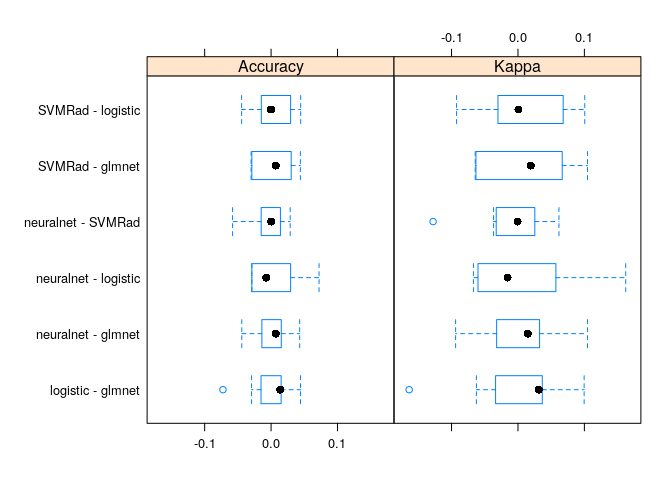
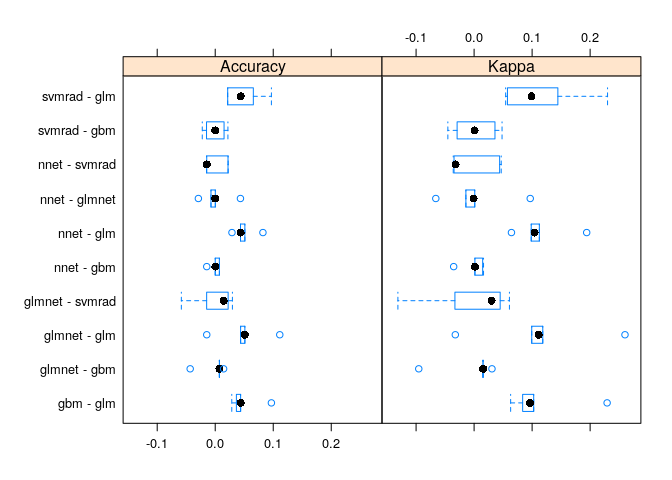
gbm

diff --git a/source/Caret.md b/source/Caret.md
@@ -1,7 +1,7 @@
 Machine Learning with Caret
 ================
 Jesse Cambon
-18 September, 2018
+21 September, 2018
 
 -   [References](#references)
 -   [Setup](#setup)
@@ -42,49 +42,35 @@ skim(BreastCancer)
 
 BC <- BreastCancer %>% as_tibble() %>%
   dplyr::select(-Id) %>%
-  drop_na() # should really use imputation but we'll do this for now
+  # should really use imputation but we'll just drop nas for now
+  drop_na() 
 
 # Use k-fold cross-validation
-control <- trainControl(method="cv", number=10)
+TC <- trainControl(method="cv", number=5)
 
-# Neural Network
-nnet <- train(Class ~ .,  # decide out outcome variable
-               BC, # our dataset
-               trControl=control,
-               method='nnet')
-nnet
+# Train some models
 
-# SVM Radial
-svmRad <- train(Class ~ .,  
-               BC, 
-               trControl=control,
-               method='svmRadial')
+# Neural Net
+nnet <- train(Class ~ . , BC,method='nnet',trControl=TC)
 
-svmRad
+# Gradient Boosted Machine
+gbm <- train(Class ~ . , BC,method='gbm',trControl=TC)
 
-# Bayesian Logistic Regression
-logistic <- train(Class ~ .,  # decide out outcome variable
-               BC, # our dataset
-               trControl=control,
-               method='bayesglm')
+# Radial SVM
+svmrad <- train(Class ~ . , BC,method='svmRadial',trControl=TC)
 
-logistic
+# Elastic-net
+glmnet <- train(Class ~ . , BC,method='glmnet',trControl=TC,tuneLength=5)
 
-glmnet <- train(Class ~ .,  
-               BC, 
-               trControl=control,
-               method='glmnet')
-
-glmnet
+# Logistic regression - did not converge
+glm <- train(Class ~ . , BC,method='glm',trControl=TC)
 ```
 
 ``` r
 # Look at results of Glmnet model
 
-glmOptLambda <- glmnet$finalModel$lambdaOpt
-
 # Extract coefficients from optimal model
-glm_coeff1 <- coef(glmnet$finalModel,glmOptLambda) %>% 
+glm_coeff <- coef(glmnet$finalModel,glmnet$finalModel$lambdaOpt) %>% 
   as.matrix() %>% as.data.frame() %>%
   rownames_to_column('Variable') %>%
   as_tibble() %>%
@@ -92,25 +78,21 @@ glm_coeff1 <- coef(glmnet$finalModel,glmOptLambda) %>%
   arrange(desc(abs(Coefficient)))
 
 
-# glmterms <- tidy(glmnet$finalModel) %>%
-#   # Pick closest model to optimal lambda
-#   filter(abs(lambda - glmOptLambda) == min(abs(lambda-glmOptLambda))) %>%
-#   arrange(desc(estimate)) 
-
 # Combine variable importance data with coefficients
 varImportance <- varImp(glmnet)$importance %>% 
   rownames_to_column('Variable') %>%
   rename(Importance=2) %>%
   arrange(desc(Importance)) %>%
-  full_join(glm_coeff1,by='Variable') %>%
+  full_join(glm_coeff,by='Variable') %>%
   filter(Coefficient != 0) 
 ```
 
 ``` r
-resamps <- resamples(list(neuralnet=nnet,
-                          SVMRad=svmRad,
-                          logistic=logistic,
-                          glmnet=glmnet))
+resamps <- resamples(list(nnet=nnet,
+                          glmnet=glmnet,
+                          svmrad=svmrad,
+                          gbm=gbm,
+                          glm=glm))
 
 # Accuracy comparison
 dotplot(resamps, metric = "Accuracy")
@@ -133,21 +115,43 @@ kable(varImportance,format='markdown') %>%
   kable_styling(bootstrap_options = c("striped",'border'))
 ```
 
-| Variable        |   Importance|  Coefficient|
-|:----------------|------------:|------------:|
-| Cl.thickness.L  |  100.0000000|    1.4334465|
-| Cell.shape.L    |   98.9959241|    1.4190536|
-| Cell.size.L     |   96.0999432|    1.3775413|
-| Marg.adhesion.L |   59.9424497|    0.8592429|
-| Epith.c.size.L  |   58.7994816|    0.8428591|
-| Cell.shape.Q    |   53.8521328|   -0.7719415|
-| Bare.nuclei10   |   48.7846527|    0.6993019|
-| Cell.size.Q     |   45.8138944|   -0.6567177|
-| Cell.size.C     |   20.4244327|    0.2927733|
-| Epith.c.size^5  |   19.8534568|   -0.2845887|
-| Epith.c.size.Q  |   12.7810786|   -0.1832099|
-| Epith.c.size^4  |    6.4488341|    0.0924406|
-| Marg.adhesion.Q |    1.2788000|   -0.0183309|
-| Cell.shape.C    |    0.8378617|    0.0120103|
-| Bl.cromatin7    |    0.3533834|    0.0050656|
-| (Intercept)     |           NA|    0.7439187|
+| Variable          |   Importance|  Coefficient|
+|:------------------|------------:|------------:|
+| Cl.thickness.L    |  100.0000000|    3.4100769|
+| Cell.shape.L      |   57.9989495|    1.9778088|
+| Cell.size.L       |   56.7390611|    1.9348456|
+| Marg.adhesion.L   |   56.7390084|    1.9348438|
+| Bare.nuclei10     |   50.7586916|    1.7309104|
+| Bare.nuclei9      |   45.7678445|    1.5607187|
+| Bare.nuclei6      |   41.2990307|    1.4083287|
+| Normal.nucleoli10 |   37.7832016|    1.2884362|
+| Cell.shape.Q      |   36.2651756|   -1.2366704|
+| Bl.cromatin5      |   33.2490293|    1.1338175|
+| Marg.adhesion^9   |   31.7087950|    1.0812943|
+| Normal.nucleoli4  |   29.5420557|    1.0074068|
+| Normal.nucleoli9  |   24.0973080|    0.8217367|
+| Epith.c.size^4    |   22.5493010|    0.7689485|
+| Normal.nucleoli2  |   22.3438540|   -0.7619426|
+| Cell.size.C       |   17.1403971|    0.5845007|
+| Bl.cromatin7      |   16.0856470|    0.5485329|
+| Cl.thickness^8    |   15.3023494|   -0.5218219|
+| Cell.size^8       |   15.2188813|    0.5189756|
+| Bare.nuclei7      |   13.2596843|    0.4521654|
+| Bare.nuclei3      |   12.0190659|    0.4098594|
+| Bare.nuclei4      |   11.1653523|    0.3807471|
+| Cell.size^5       |    9.7304910|    0.3318172|
+| Cell.shape.C      |    9.2941514|    0.3169377|
+| Cell.size.Q       |    8.9781030|   -0.3061602|
+| Normal.nucleoli6  |    8.1225173|    0.2769841|
+| Epith.c.size^8    |    7.9630578|    0.2715464|
+| Epith.c.size.L    |    7.4422032|    0.2537849|
+| Bare.nuclei5      |    6.6248268|    0.2259117|
+| Cell.shape^8      |    6.5931106|    0.2248301|
+| Epith.c.size^7    |    5.8722778|   -0.2002492|
+| Cl.thickness^5    |    5.7674433|    0.1966743|
+| Bl.cromatin4      |    5.7288930|    0.1953597|
+| Cl.thickness.Q    |    4.8120311|    0.1640940|
+| Epith.c.size^5    |    1.9890777|   -0.0678291|
+| Bare.nuclei8      |    1.6499963|    0.0562661|
+| Normal.nucleoli7  |    0.0179295|   -0.0006114|
+| (Intercept)       |           NA|    0.6992724|
